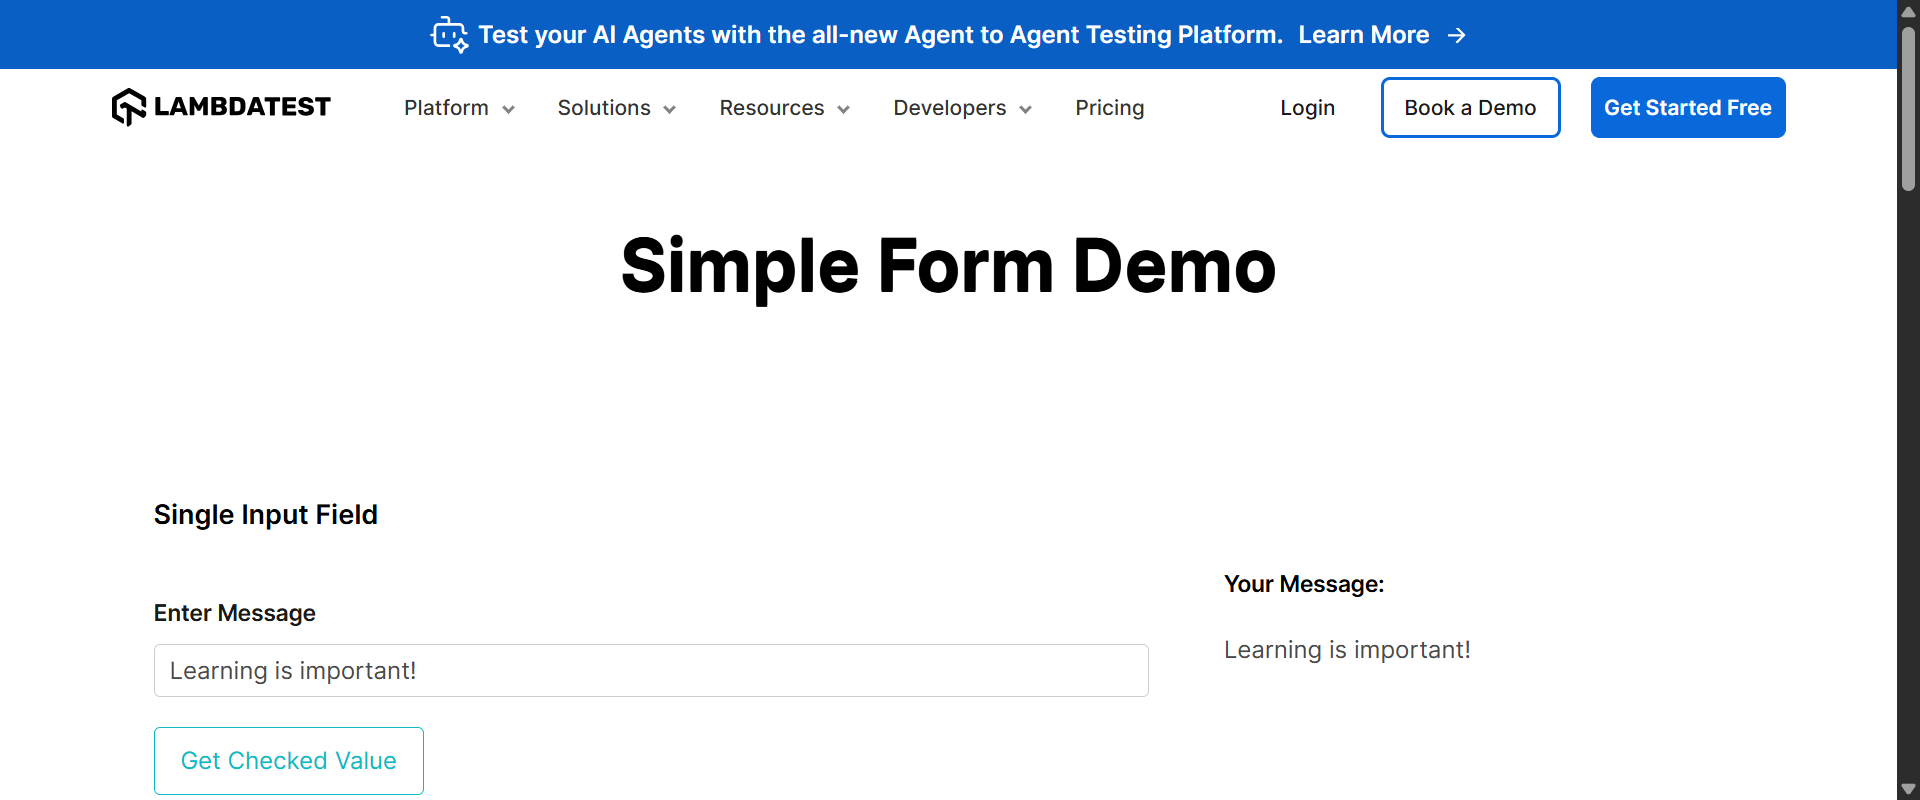
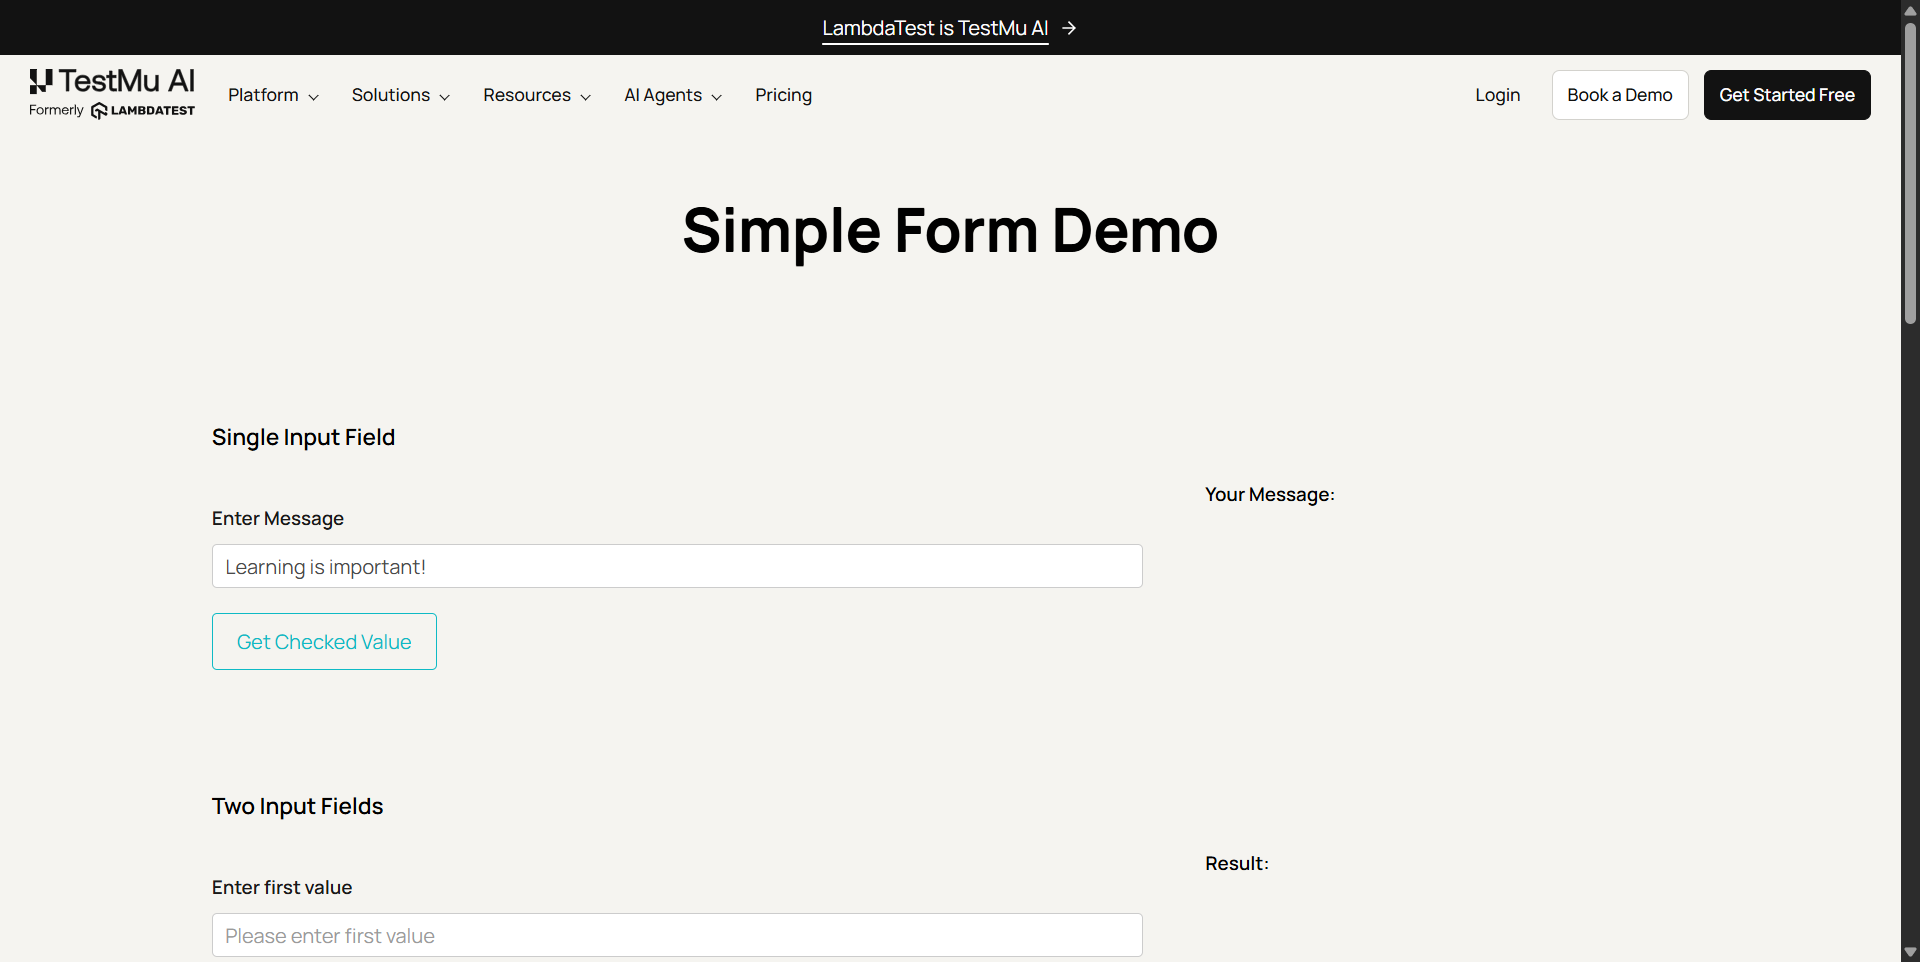
Code Refactor

diff --git a/src/test/java/com/testng/TakingScreenshotOfFailedCases.java b/src/test/java/com/testng/TakingScreenshotOfFailedCases.java
@@ -26,9 +26,7 @@ public class TakingScreenshotOfFailedCases {
         driver = new ChromeDriver();
         driver.manage().window().maximize();
         driver.get("https://www.lambdatest.com/selenium-playground/");
-
     }
-
 
     @Test
     public void testCheckboxDemo() {
@@ -44,7 +42,7 @@ public class TakingScreenshotOfFailedCases {
         if (ITestResult.FAILURE == testResult.getStatus()) {
             TakesScreenshot screenshot = (TakesScreenshot) driver;
             File source = screenshot.getScreenshotAs(OutputType.FILE);
-            File destination = new File(System.getProperty("user.dir") + "\\screenshots\\" + testResult.getName() + ".png");
+                File destination = new File(System.getProperty("user.dir") + "\\screenshots\\" + testResult.getName() + ".png");
 
             try {
                 FileUtils.copyFile(source, destination);

diff --git a/src/test/java/com/lambdatest/ProgressBarTest.java b/src/test/java/com/lambdatest/ProgressBarTest.java
@@ -21,5 +21,4 @@ public class ProgressBarTest extends BaseTests {
 
     }
 
-
 }